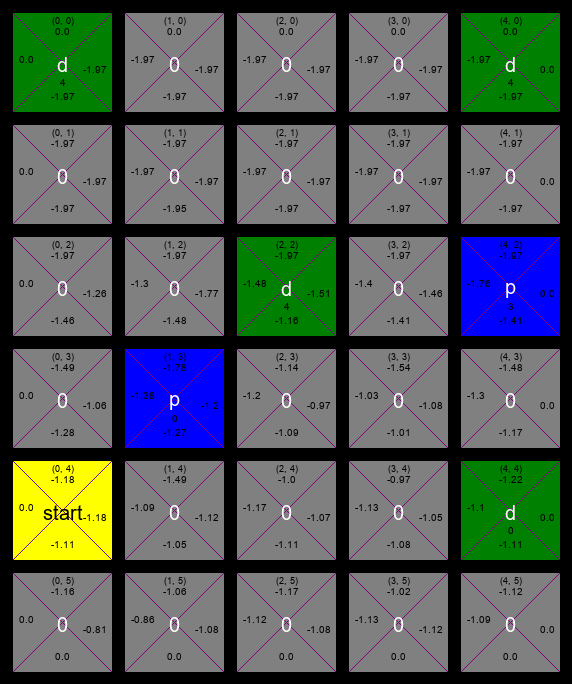
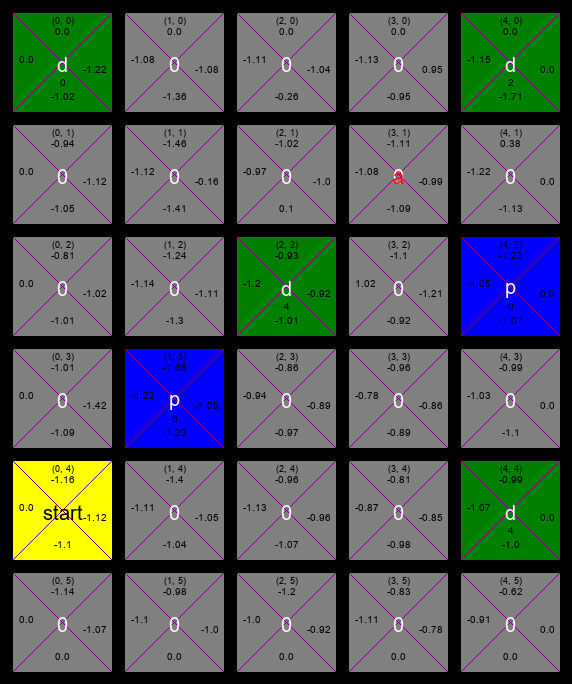
Add more visualize q table

diff --git a/vis_funcs.py b/vis_funcs.py
@@ -36,12 +36,13 @@ def initQTableWorld(h, w, world, world_vl, x, y):
                 world_vl.write_block(world[(c, r)]['coor'], world[(c, r)]['action'], 'white')
             world_vl.write_block(world[(c, r)]['coor'], str(world[(c, r)]['coor']), 'black', 'n', 9, offset_u=10)
 
-def updateQTableWorld(h, w, world, world_vl):
+def updateQTableWorld(h, w, world, world_vl, x, y):
     for r in range(h):
         for c in range(w):
             if world[(c, r)]['action'] == 'd' or world[(c, r)]['action'] == 'p':
                 world_vl.write_block(world[(c, r)]['coor'], str(world[(c, r)]['no_of_blocks']), 'black',
                                      pos='s', font_s=10, offset_u=14)
+    world_vl.write_block(world[(x, y)]['coor'], 'a', 'red')
 
 
 def fillQValues(h, w, q_table, world_vl, has_block):

diff --git a/main.py b/main.py
@@ -70,8 +70,14 @@ def main():
     q_table_with_block = vl()
     q_table_with_block.visualize_gen(h, w, world, 'q_table_with_block')
     initQTableWorld(h, w, world, q_table_with_block, start_x, start_y)
-    updateQTableWorld(h, w, world, q_table_with_block)
+    updateQTableWorld(h, w, world, q_table_with_block, x, y)
     fillQValues(h, w, q_table, q_table_with_block, True)
+
+    q_table_no_block = vl()
+    q_table_no_block.visualize_gen(h, w, world, 'q_table_no_block')
+    initQTableWorld(h, w, world, q_table_no_block, start_x, start_y)
+    updateQTableWorld(h, w, world, q_table_no_block, x, y)
+    fillQValues(h, w, q_table, q_table_no_block, False)
 
 
 def applyAction(action):
